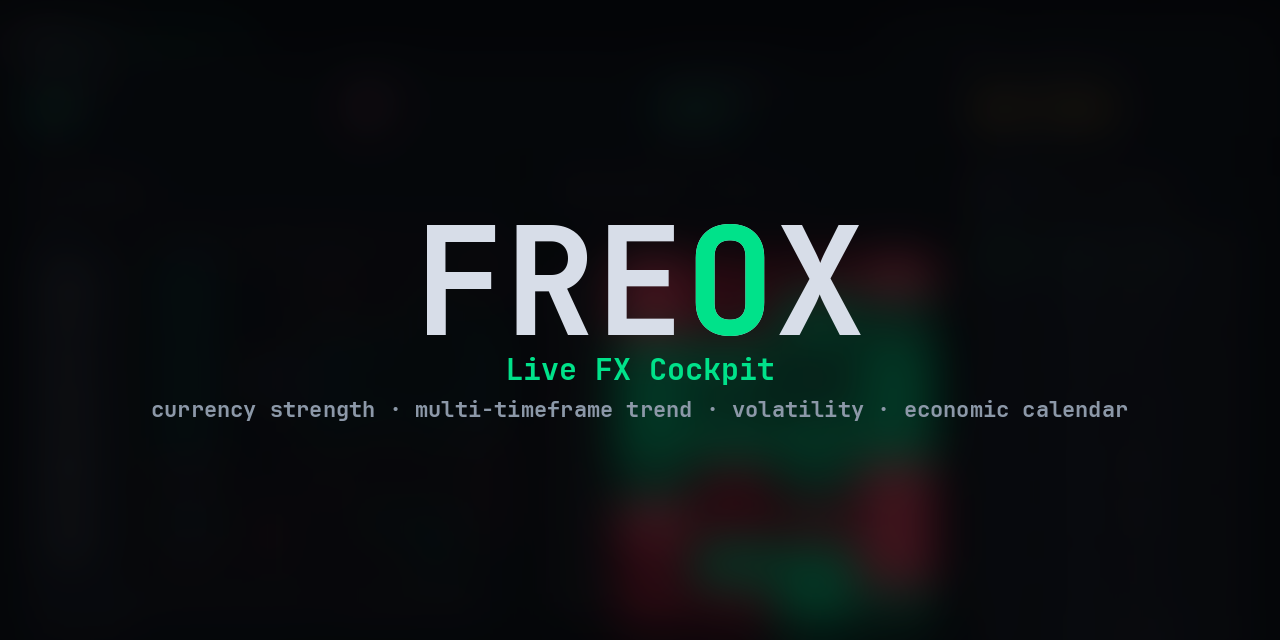
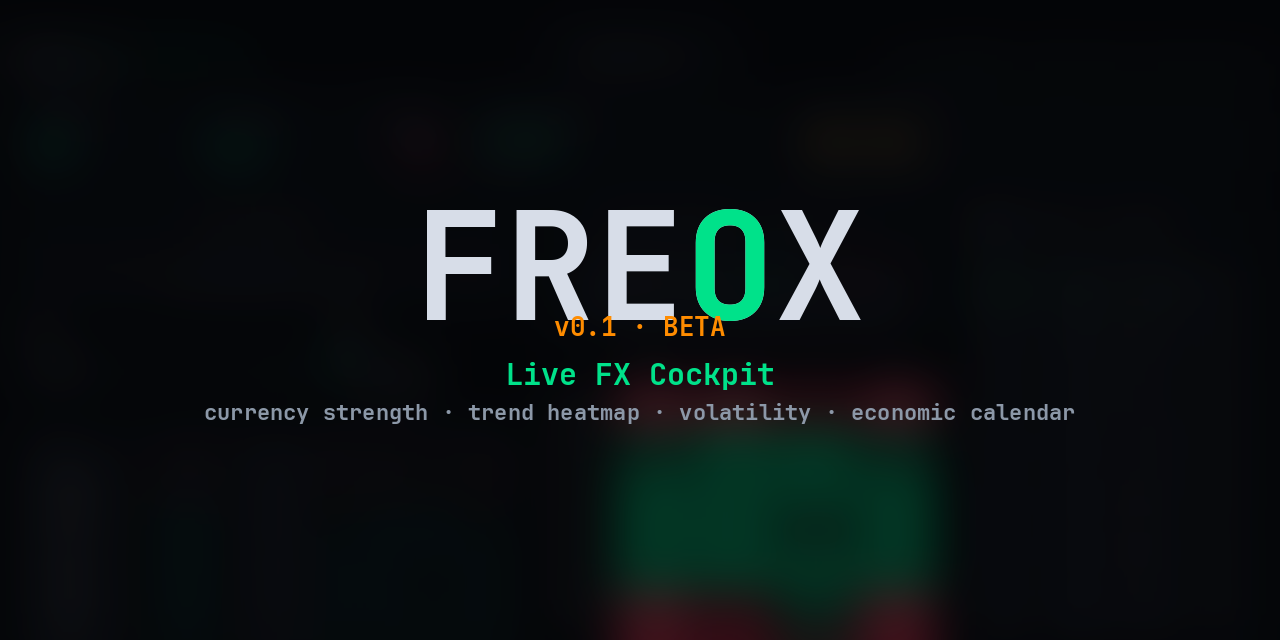
Release v0.1.0 (beta): version chip in-app, new screenshot + social cover, CHANGELOG

diff --git a/app.py b/app.py
@@ -74,6 +74,8 @@ AMBER   = "#ffb020"
 INK     = "#d7dde8"
 MUT     = "#6b7688"
 
+VERSION = "0.1"   # beta — bump on each release
+
 st.set_page_config(page_title="FREOX ▮ FX Cockpit", page_icon="💹",
                    layout="wide", initial_sidebar_state="collapsed")
 
@@ -98,6 +100,8 @@ st.markdown(f"""<style>
   .logo b{{color:{UP};}}
   .live{{display:inline-flex;align-items:center;gap:.4rem;color:{UP};
          font:700 11px/1 'JetBrains Mono',monospace;letter-spacing:.14em;}}
+  .beta{{color:#ff8c00;border:1px solid #ff8c00;border-radius:4px;padding:.12rem .35rem;
+         font:700 9px/1 'JetBrains Mono',monospace;letter-spacing:.12em;}}
   .dot{{width:8px;height:8px;border-radius:50%;background:{UP};
         box-shadow:0 0 8px {UP};animation:pulse 1.6s infinite;}}
   @keyframes pulse{{0%,100%{{opacity:1;}}50%{{opacity:.35;}}}}
@@ -469,6 +473,7 @@ def cockpit():
     with hL:
         st.markdown(
             f'<div class="hdr"><span class="logo">FRE<b>O</b>X</span>'
+            f'<span class="beta">v{VERSION} BETA</span>'
             f'<span class="live"><span class="dot"></span>{rlabel.upper()}</span></div>',
             unsafe_allow_html=True)
     with hMid:

diff --git a/CHANGELOG.md b/CHANGELOG.md
@@ -1,0 +1,23 @@
+# Changelog
+
+All notable changes to Freox are documented here. Versioning is loose while in beta.
+
+## [0.1.0] — 2026-07-06 · first beta
+
+The first tagged beta of Freox — a single-screen live forex cockpit.
+
+### Added
+- **Command cockpit** layout (single screen, trading-terminal styling, auto-refresh).
+- **KPI strip** — Strongest · Top Mover · Weakest currency box, trend breadth, next high-impact event.
+- **Pair Monitor** — daily change, ATR volatility (unit-aware: pips / points / $), multi-timeframe
+  trend arrows (M15/H1/H4/D1), sortable by any column.
+- **Currency Strength meter** — 8-currency relative strength over 24H / 1D / 1W.
+- **Trend Heatmap** — pair × timeframe grid with timeframe labels on top.
+- **Economic Calendar** — Forex Factory feed, disk-cached with fallback, event news links, countdowns.
+- **Watchlist picker** — grouped by Majors / Minors 1 (liquid) / Minors 2 (thin) / Metal & Crypto,
+  with per-group toggle buttons. Default watchlist = the 7 majors.
+- Gold (XAUUSD) and Bitcoin (BTCUSD) alongside FX.
+- No API keys — data via Yahoo Finance + Forex Factory. Runs on free tiers.
+
+### Notes
+- **Beta / work in progress** — features change, data may be delayed or wrong, not for live trading.

diff --git a/README.md b/README.md
@@ -1,5 +1,6 @@
 # Freox — Live Forex Cockpit
 
+![Version](https://img.shields.io/badge/version-0.1.0-blue?style=for-the-badge)
 ![Beta](https://img.shields.io/badge/status-BETA-ff8c00?style=for-the-badge)
 ![Work in progress](https://img.shields.io/badge/work%20in%20progress-yes-ffb020?style=for-the-badge)
 